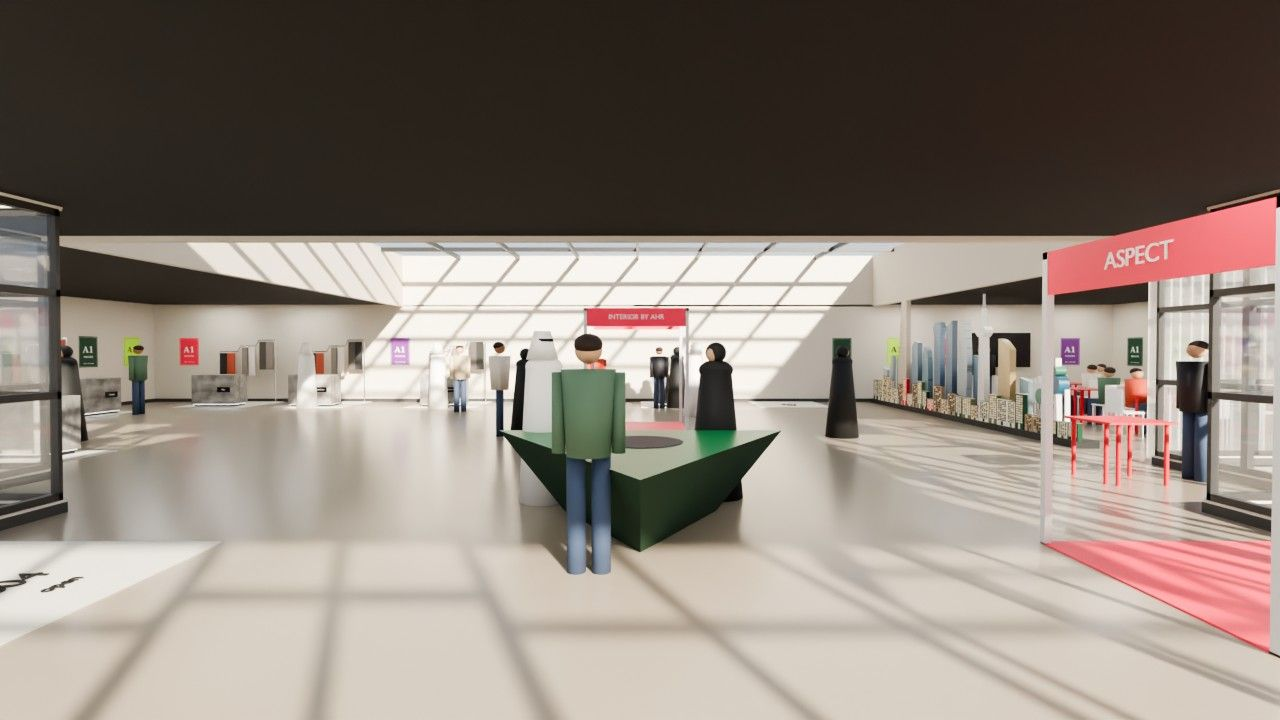
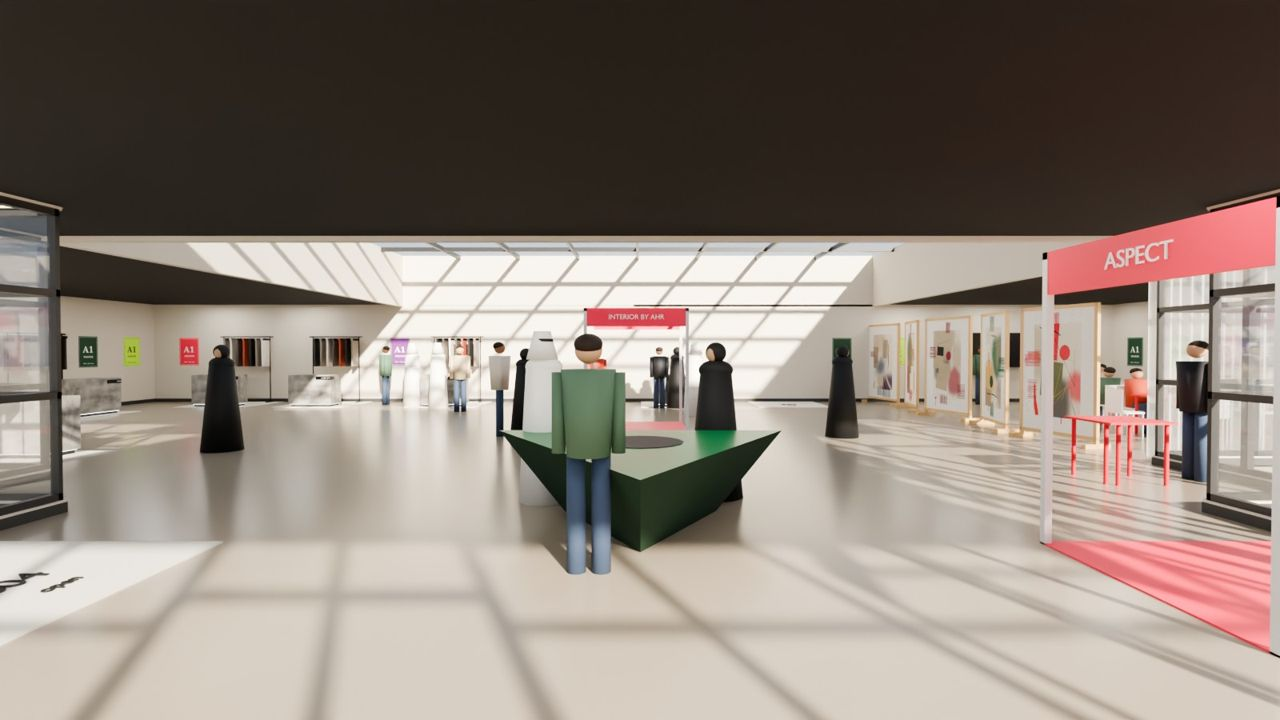
3D views: new venue shots with canvas stands and black racks
Claude-Session: https://claude.ai/code/session_01RKwS6ijLGS6BpKBcyrHVFE

diff --git a/manage.html b/manage.html
@@ -226,11 +226,11 @@ function planSVG(){
 }
 /* ---------- 3D views ---------- */
 const VIEWS=[
- {t:'Venue · current layout',s:'Updated 19 Nov 2026. Black 3 m ceilings on the sides, glass-roof square (4.5 m) in the centre, cherry red Academy tables. The Academy edge here shows the Kuwait skyline option.',
-  i:[['venue-01-front-door','From the front door'],['venue-02-square-from-the-edit','Glass-roof square, from The Edit'],['venue-03-square-to-south-wall','Square towards the south wall'],['venue-04-square-to-academy','Square towards the Academy'],['venue-05-main-hall-to-the-edit','Main hall towards The Edit'],['venue-06-inside-the-edit','Inside The Edit'],['venue-07-academy-door-registration','Academy door and registration'],['venue-08-inside-academy','Inside the Academy']]},
+ {t:'Venue · current layout',s:'Updated 19 Nov 2026 (night). Black 3 m ceilings on the sides, glass-roof square (4.5 m) in the centre, cherry red Academy tables, approved canvas stands at the Academy edge, black racks in The Edit (160 cm wide, 2 m high, no wheels). Table name plates shown as option C.',
+  i:[['venue-01-front-door','From the front door'],['venue-02-square-from-the-edit','Glass-roof square, from The Edit'],['venue-03-square-to-south-wall','Square towards the south wall'],['venue-04-square-to-academy','Square towards the Academy'],['venue-05-main-hall-to-the-edit','Main hall towards The Edit'],['venue-06-inside-the-edit','Inside The Edit'],['venue-07-academy-door-registration','Academy door and registration'],['venue-08-inside-academy','Inside the Academy'],['venue-09-edit-tables','The Edit · tables and black racks']]},
  {t:'Academy edge · canvas stands (approved 19 Nov)',s:'Approved: 5 angled stands, matte canvas, timber frame showing. Frame 158 × 237 cm, visible canvas 146 × 213 cm, print 150 × 217 cm (printer width 1.5 m, 2 cm tucked behind the frame each side), 25 cm white border, art 96 × 163 cm. Printed both sides. Leg style still to choose.',
   i:[['edge-stands-matte-frame','Approved finish · matte canvas, frame showing'],['edge-stands-wide','Stands from the hall'],['legs-T-current','Legs T · current feet'],['legs-A-frame','Legs A · splayed A-frame'],['legs-X-cross','Legs X · crossed feet'],['legs-O-offset','Legs O · offset feet with brace']]},
- {t:'Academy edge · earlier option',s:'Styrofoam Kuwait skyline (not chosen). The venue shots above still show it at the Academy edge.',
+ {t:'Academy edge · earlier option',s:'Styrofoam Kuwait skyline (not chosen).',
   i:[['edge-skyline-wide','Kuwait skyline'],['edge-skyline-close','Kuwait skyline · close']]},
  {t:'Booth table name · options',s:'Brand name in cut-out acrylic letters (Inter Tight), top-right corner of the table, ending at the edge. C is acceptable; choosing between C, E, H and I.',
   i:[['table-name-C-corner-wrap','C · corner wrap'],['table-name-E-cap','E · cap over the top'],['table-name-H-shadow','H · shadow letters'],['table-name-I-lit','I · lit corner wrap']]}
